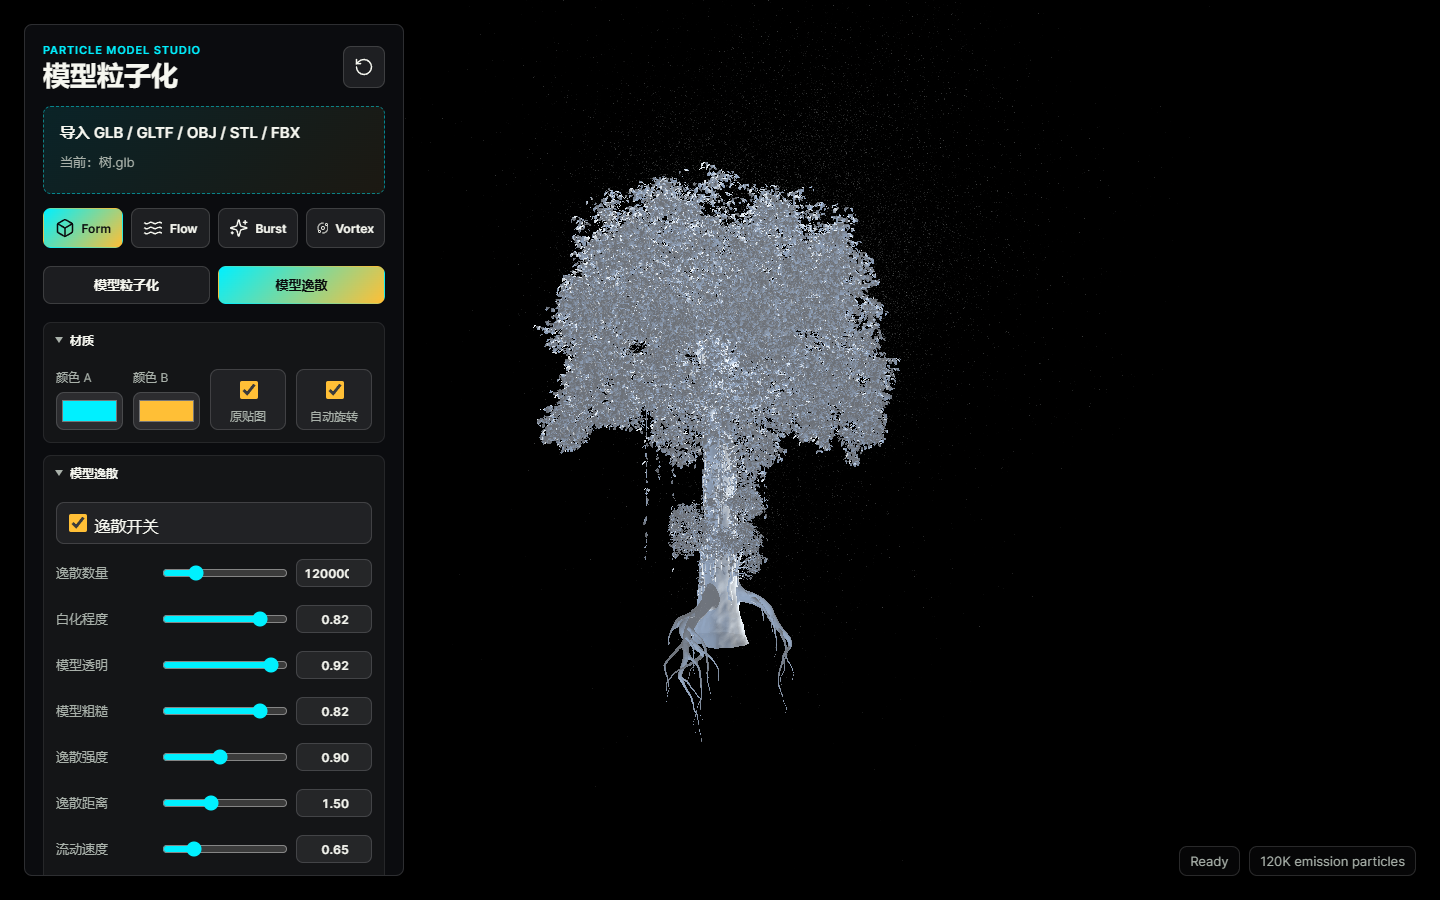
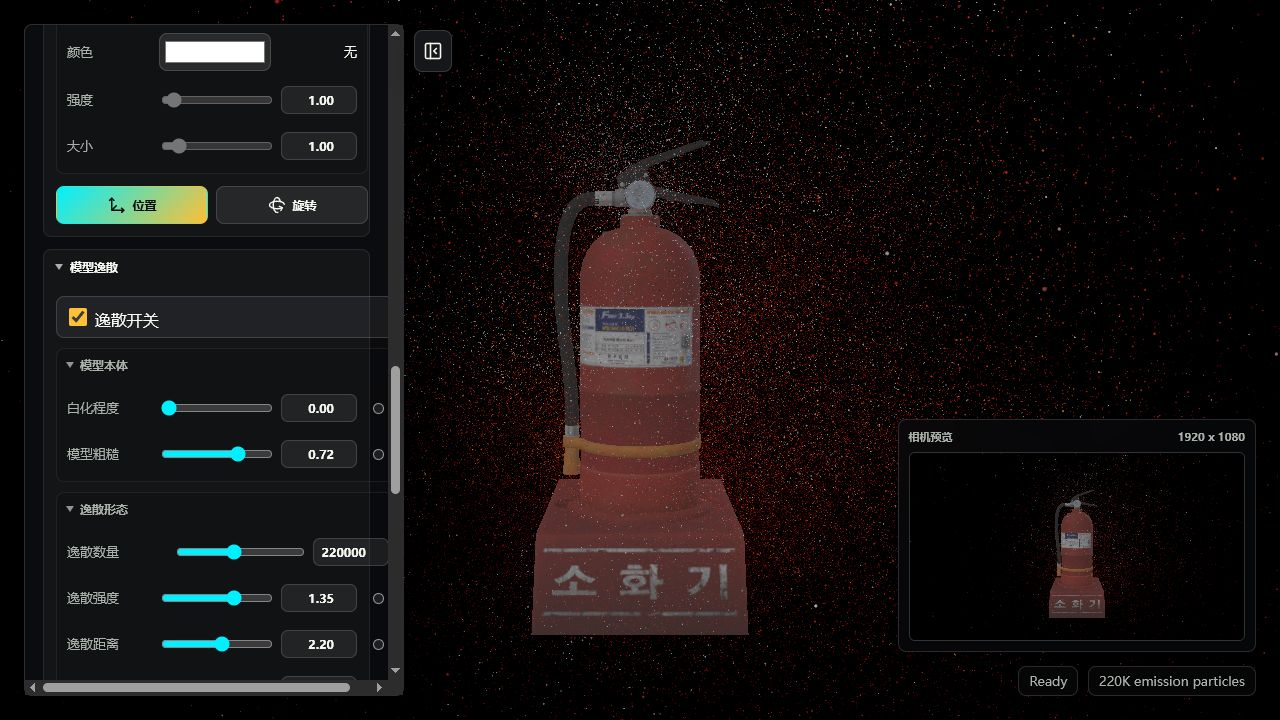
feat: strengthen emission defaults and add promo media

diff --git a/index.html b/index.html
@@ -723,13 +723,13 @@
               <div class="control-grid">
                 <label>
                   <span>白化程度</span>
-                  <input id="modelWhite" type="range" min="0" max="1" step="0.01" value="0.72" />
-                  <input id="modelWhiteValue" class="value-input" type="number" min="0" max="1" step="0.01" value="0.72" />
+                  <input id="modelWhite" type="range" min="0" max="1" step="0.01" value="0" />
+                  <input id="modelWhiteValue" class="value-input" type="number" min="0" max="1" step="0.01" value="0.00" />
                 </label>
                 <label>
                   <span>模型粗糙</span>
-                  <input id="modelRoughness" type="range" min="0" max="1" step="0.01" value="0.82" />
-                  <input id="modelRoughnessValue" class="value-input" type="number" min="0" max="1" step="0.01" value="0.82" />
+                  <input id="modelRoughness" type="range" min="0" max="1" step="0.01" value="0.72" />
+                  <input id="modelRoughnessValue" class="value-input" type="number" min="0" max="1" step="0.01" value="0.72" />
                 </label>
               </div>
             </details>
@@ -739,23 +739,23 @@
               <div class="control-grid">
                 <label>
                   <span>逸散数量</span>
-                  <input id="emissionCount" type="range" min="1" max="500000" step="1" value="120000" />
-                  <input id="emissionCountValue" class="value-input" type="number" min="1" step="1" value="120000" />
+                  <input id="emissionCount" type="range" min="1" max="500000" step="1" value="220000" />
+                  <input id="emissionCountValue" class="value-input" type="number" min="1" step="1" value="220000" />
                 </label>
                 <label>
                   <span>逸散强度</span>
-                  <input id="emissionIntensity" type="range" min="0" max="2" step="0.01" value="0.9" />
-                  <input id="emissionIntensityValue" class="value-input" type="number" min="0" step="0.01" value="0.90" />
+                  <input id="emissionIntensity" type="range" min="0" max="2" step="0.01" value="1.35" />
+                  <input id="emissionIntensityValue" class="value-input" type="number" min="0" step="0.01" value="1.35" />
                 </label>
                 <label>
                   <span>逸散距离</span>
-                  <input id="emissionDistance" type="range" min="0" max="4" step="0.01" value="1.25" />
-                  <input id="emissionDistanceValue" class="value-input" type="number" min="0" step="0.01" value="1.25" />
+                  <input id="emissionDistance" type="range" min="0" max="4" step="0.01" value="2.2" />
+                  <input id="emissionDistanceValue" class="value-input" type="number" min="0" step="0.01" value="2.20" />
                 </label>
                 <label>
                   <span>流动速度</span>
-                  <input id="emissionSpeed" type="range" min="0" max="3" step="0.01" value="0.65" />
-                  <input id="emissionSpeedValue" class="value-input" type="number" min="0" step="0.01" value="0.65" />
+                  <input id="emissionSpeed" type="range" min="0" max="3" step="0.01" value="0.9" />
+                  <input id="emissionSpeedValue" class="value-input" type="number" min="0" step="0.01" value="0.90" />
                 </label>
               </div>
             </details>
@@ -765,23 +765,23 @@
               <div class="control-grid">
                 <label>
                   <span>风向 X</span>
-                  <input id="emissionWindX" type="range" min="-2" max="2" step="0.01" value="0.25" />
-                  <input id="emissionWindXValue" class="value-input" type="number" step="0.01" value="0.25" />
+                  <input id="emissionWindX" type="range" min="-2" max="2" step="0.01" value="0.45" />
+                  <input id="emissionWindXValue" class="value-input" type="number" step="0.01" value="0.45" />
                 </label>
                 <label>
                   <span>风向 Y</span>
-                  <input id="emissionWindY" type="range" min="-2" max="2" step="0.01" value="0.18" />
-                  <input id="emissionWindYValue" class="value-input" type="number" step="0.01" value="0.18" />
+                  <input id="emissionWindY" type="range" min="-2" max="2" step="0.01" value="0.28" />
+                  <input id="emissionWindYValue" class="value-input" type="number" step="0.01" value="0.28" />
                 </label>
                 <label>
                   <span>风向 Z</span>
-                  <input id="emissionWindZ" type="range" min="-2" max="2" step="0.01" value="0" />
-                  <input id="emissionWindZValue" class="value-input" type="number" step="0.01" value="0.00" />
+                  <input id="emissionWindZ" type="range" min="-2" max="2" step="0.01" value="-0.06" />
+                  <input id="emissionWindZValue" class="value-input" type="number" step="0.01" value="-0.06" />
                 </label>
                 <label>
                   <span>湍流</span>
-                  <input id="emissionTurbulence" type="range" min="0" max="3" step="0.01" value="0.72" />
-                  <input id="emissionTurbulenceValue" class="value-input" type="number" min="0" step="0.01" value="0.72" />
+                  <input id="emissionTurbulence" type="range" min="0" max="3" step="0.01" value="1.05" />
+                  <input id="emissionTurbulenceValue" class="value-input" type="number" min="0" step="0.01" value="1.05" />
                 </label>
               </div>
             </details>
@@ -791,18 +791,18 @@
               <div class="control-grid">
                 <label>
                   <span>粒子尺寸</span>
-                  <input id="emissionSize" type="range" min="0.1" max="8" step="0.01" value="1.15" />
-                  <input id="emissionSizeValue" class="value-input" type="number" min="0.01" step="0.01" value="1.15" />
+                  <input id="emissionSize" type="range" min="0.1" max="8" step="0.01" value="2.1" />
+                  <input id="emissionSizeValue" class="value-input" type="number" min="0.01" step="0.01" value="2.10" />
                 </label>
                 <label>
                   <span>粒子透明</span>
-                  <input id="emissionOpacity" type="range" min="0" max="1" step="0.01" value="0.42" />
-                  <input id="emissionOpacityValue" class="value-input" type="number" min="0" max="1" step="0.01" value="0.42" />
+                  <input id="emissionOpacity" type="range" min="0" max="1" step="0.01" value="0.78" />
+                  <input id="emissionOpacityValue" class="value-input" type="number" min="0" max="1" step="0.01" value="0.78" />
                 </label>
                 <label>
                   <span>粒子发光</span>
-                  <input id="emissionGlow" type="range" min="0" max="3" step="0.01" value="0.35" />
-                  <input id="emissionGlowValue" class="value-input" type="number" min="0" step="0.01" value="0.35" />
+                  <input id="emissionGlow" type="range" min="0" max="3" step="0.01" value="0.75" />
+                  <input id="emissionGlowValue" class="value-input" type="number" min="0" step="0.01" value="0.75" />
                 </label>
               </div>
             </details>

diff --git a/README.md b/README.md
@@ -11,6 +11,12 @@ Particle Model Studio is a real-time 3D particle editor for visual creators. Imp
 
 ![Particle Model Studio 粒子消散编辑界面](docs/images/particle-dissolve.png)
 
+## 宣传视频 / Promo Video
+
+[![观看 Particle Model Studio 1080p 宣传片](docs/images/promo-poster.jpg)](https://github.com/ying1459/particle-model-studio/releases/download/v1.0.0/Particle-Model-Studio-Promo-1080p.mp4)
+
+点击上图观看 1080p 宣传片：模型逸散、完整消散、双模型 Morph、图片转 3D 点云，以及 HDR 灯光与相机制作都收录其中。
+
 > 想直接体验？前往 [Latest Release](https://github.com/ying1459/particle-model-studio/releases/latest) 下载 Windows x64 版本。项目对你有帮助的话，欢迎点一个 ⭐ Star。
 
 ## 它能做什么
@@ -62,6 +68,8 @@ Particle Model Studio is a real-time 3D particle editor for visual creators. Imp
 “模型逸散”模拟实体表面持续剥离成粒子的过程。它与普通粒子化不同：原模型仍可保持可见，同时在表面生成流动碎屑。
 
 可以调节白化程度、模型粗糙度、逸散数量、强度、距离、速度、风向、湍流、粒子尺寸、透明度和发光。局部破碎还提供破碎中心、范围、羽化和碎片大小，用来指定从模型哪个区域开始瓦解。
+
+默认展示参数使用原始贴图（白化程度 `0`），并提高到 `220,000` 个逸散粒子、`1.35` 强度和 `2.20` 距离，让模型表面剥离与飞散轨迹在默认画面中就清楚可见。
 
 ![模型逸散效果](docs/images/model-emission.png)
 